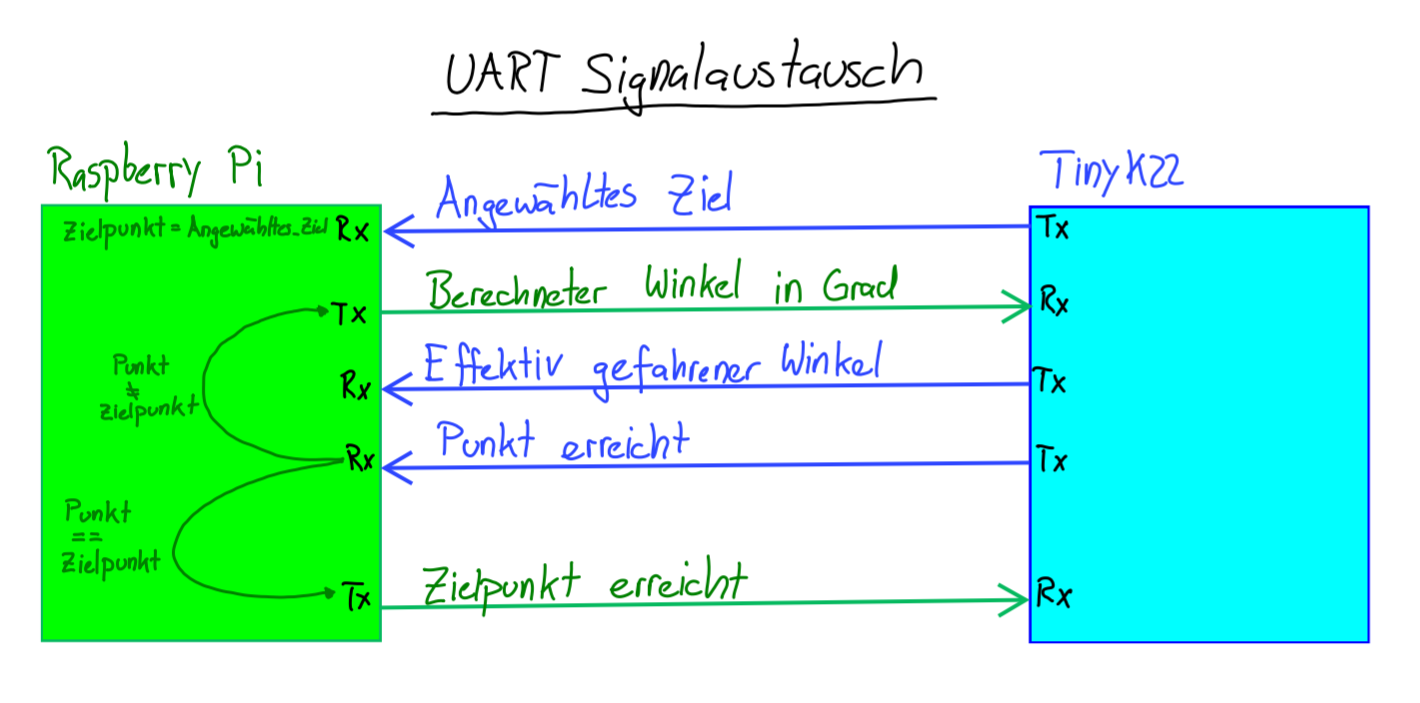
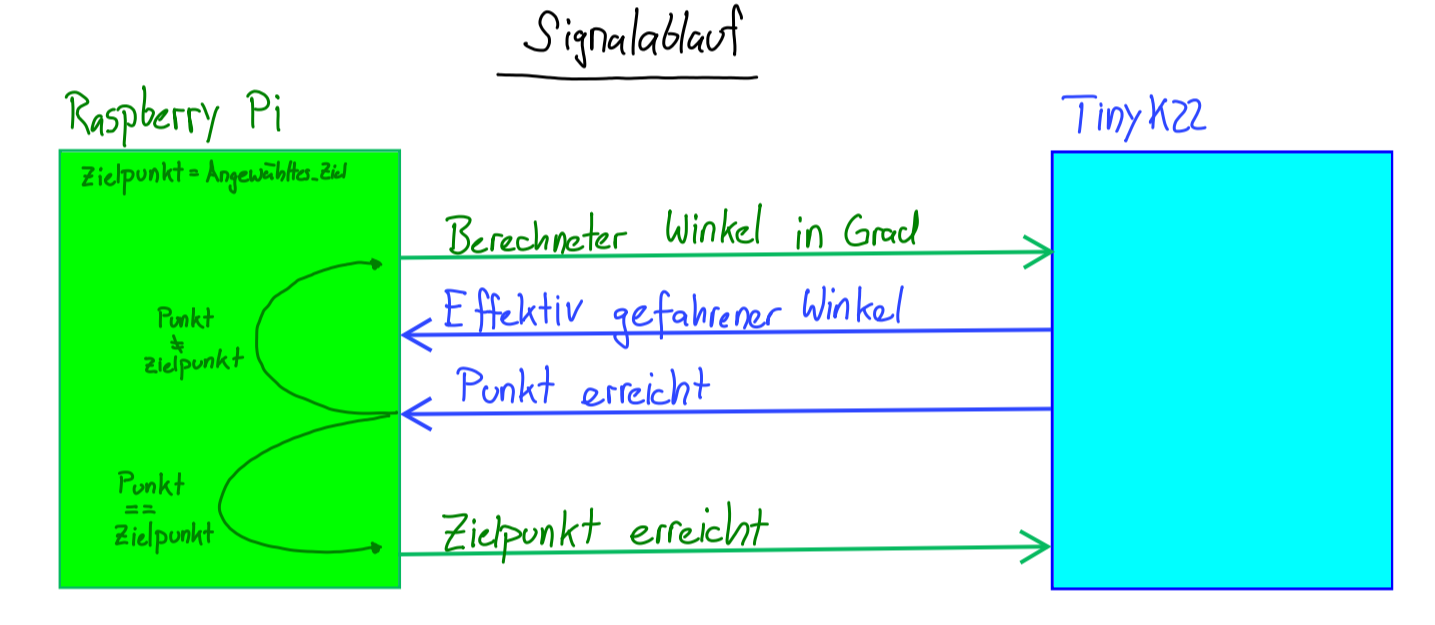
Changes from Overleaf

Changed region(s): [[0.031, 0.152, 0.9915, 0.9728], [0.3099, 0.0, 0.6507, 0.1824], [0.1239, 0.6992, 0.1859, 0.7904]]

diff --git a/parts/3-loesungskonzept.tex b/parts/3-loesungskonzept.tex
@@ -1,5 +1,6 @@
 \documentclass[../main.tex]{subfiles}
 \graphicspath{{\subfix{../img/}}}
+\include{../glossary}
 \begin{document}
 
 \newpage
@@ -16,25 +17,21 @@ In diesem Kapitel wird das gewählte Lösungskonzept ''Simpel'' (siehe Anhang \r
 
 \subsection{Aufbau}
 
-\textbf{TODO:} 
-- Aufbau mit fehlenden Daten ergänzen.  
+Der Fahrzeug besitzt zwei Räder, die mit jeweils einem DC-Motor angetrieben werden. Um das Fahrzeug zu balancieren, hat es am hinteren Fahrzeugende eine dritte Auflagefläche.
 
+Die Raspberry Pi Module 3 Kamera befindet sich auf einem höhenverstellbaren Masten. Die Höhe der Kamera kann zwischen 40 und 60 Zentimeter manuell eingestellt werden. Der Winkel der Kamera kann ebenfalls manuell verändert werden. Somit kann die Kamera-Position im späteren Verlauf des Projektes einfach optimiert werden.
 
-Der Roboter besteht aus zwei (TODO welche) Rädern, die mit jeweils einem DC-Motor angetrieben werden.
+Zur Hindernisbewältigung befindet sich an der Vorderseite des Roboters ein Klemmmechanismus. Ein dritter DC-Motor zieht die beiden Klemmbacken des Mechanismus zusammen und hebt sie an, um das Hindernis aufzuheben. Damit der Abstand zu einem Hindernis erkannt werden kann, befindet sich ein Ultraschallsensor zwischen den beiden Klemmbacken. 
 
-Die Raspberry Pi Camera Module 3 Kamera befindet sich auf einem höhenverstellbaren Masten. Die Höhe der Kamera kann zwischen 40 und 60 Zentimeter variabel eingestellt werden. Der Winkel der Kamera kann ebenfalls verändert werden. Somit kann die Kamera-Position im späteren Verlauf des Projektes einfach optimiert werden.
-
-Zur Hindernisbewältigung befindet sich an der Vorderseite des Roboters ein Greifarm. Ein Schrittmotor zieht die zwei Klemmblöcke des Greifarms zusammen und hebt sie an, um das Hindernis aufzuheben. Damit der Abstand zu einem Hindernis erkannt werden kann, befindet sich ein Ultraschallsensor zwischen den beiden Klemmblöcken. 
-
-Die Motoren, Sensoren und Eingabeknöpfe sind mit einem TinyK22 verbunden.
-Das TinyK22 sowie die Kamera sind an einem Raspberry Pi 5 angeschlossen.
+Die Motoren und Sensoren werden über das TinyK22 gesteuert.
+Das TinyK22, die Eingabeknöpfe sowie die Kamera sind an einem Raspberry Pi 5 angeschlossen.
 
 Die Energieversorgung für alle Komponenten wird mit einem LiPo-Akku sichergestellt (Begründung im Anhang \ref{a3:Energiequelle}).
 Mit dem Notaus-Knopf kann die Energieversorgung zu allen Komponenten direkt unterbrochen werden.
 \newpage
 \subsection{Ablauf}
 
-Im Ablaufdiagramm (Abbildung \ref{img:ablaufdiagramm}) wird der Programmablauf des Roboters von Start bis Ziel übersichtlich aufgezeigt.
+Im Ablaufdiagramm (Abbildung \ref{img:ablaufdiagramm}) wird der Programmablauf des Fahrzeugs von Start bis Ziel übersichtlich aufgezeigt.
 
 \begin{figure}[H]
 \includegraphics[width=0.9\textwidth]{img/lösungskonzpet/Ablaufdiagramm.png}
@@ -54,11 +51,11 @@ Sobald der Roboter im Ziel angekommen ist, erleuchtet die LED, welche sich neben
 
 \subsection{Fortbewegung} 
 
-Die Fortbewegung wird nach dem Prinzip Roomba realisiert. Wie der Name schon erahnen lässt, handelt es sich dabei um ein ähnliches System, wie wir es von Staubsauger-Robotern kennen. Das Prinzip besteht aus zwei einzeln angetriebenen Rädern und einem Stützelement. Die angetriebenen Räder können unabhängig in beide Drehrichtungen angetrieben werden, wodurch ein Wenden an Ort und Stelle ermöglicht wird. Die beiden Räder sind in Längsrichtung zentrisch angeordnet, damit sich das Fahrzeug um den eigenen Mittelpunkt drehen kann, ohne dass ein Versatz entsteht. Weitere Details dazu befinden sich im Anhang unter \ref{a3:Fortbewegung}.
+Die Fortbewegung wird nach dem Prinzip Roomba realisiert. Es handelt sich dabei um ein ähnliches System, wie es bei Staubsauger-Robotern vorkommt. Das Prinzip besteht aus zwei einzeln angetriebenen Rädern und einem Stützelement. Die angetriebenen Räder können unabhängig in beide Drehrichtungen angetrieben werden, wodurch ein Wenden an Ort und Stelle ermöglicht wird. Die beiden Räder sind in Längsrichtung zentrisch angeordnet, damit sich das Fahrzeug um den eigenen Mittelpunkt drehen kann, ohne dass ein Versatz entsteht. Weitere Details dazu befinden sich im Anhang unter \ref{a3:Fortbewegung}.
 
 Als Antriebsmotoren werden Brushed-DC-Motoren verwendet, die über eine H-Brücke mit einem PWM-Signal angesteuert werden können. \textcolor{red}{TODO: Funktion H-Brücke und PWM Signal erklären wie bei Encoder, in Anhang ergänzen oder so stehen lassen?} Jeder Motor verfügt über einen Encoder, der überwacht, dass beide Motoren die gleiche Anzahl an Umdrehungen ausführen. Gesteuert werden die Motoren von einem TinyK22 (wieso der TinyK22 gewählt wurde, siehe Anhang \ref{a3:Hardware Steuerung}), der die H-Brücke ansteuert. Weitere Details können im Anhang, unter \ref{a3:Fahrantrieb} und \ref{a3:Sensorik:Positionsabfrage} nachgeschlagen werden.
 \newpage
-Der TinyK22 ist über eine \Gls{uart}-Schnittstelle mit dem Raspberry Pi verbunden (siehe Abbildung \ref{img:UART_Physisch}). Zunächst sendet der TinyK22 das gewünschte Ziel an den Raspberry Pi. Der Raspberry Pi wertet mit der Kamera aus, welches der nächstbeste Punkt ohne Pylone ist und teilt anschliessend dem TinyK22 mit, um welchen Winkel das Fahrzeug ausgerichtet werden muss, um diesen Punkt zu erreichen. Somit dreht sich das Fahrzeug auf die angepeilte Linie, diese wird vom Liniensensor erkannt. Wird die Linie nicht erkannt, sucht das System diese durch Drehungen im Bereich von ±15 Grad. Sobald die Linie gefunden wird, meldet der TinyK22 dem Raspberry Pi, wie weit sich das Fahrzeug gedreht hat. Dies ist in der Abbildung \ref{img:UART_Signalaustausch} visualisiert.
+Der TinyK22 ist über eine \Gls{uart}-Schnittstelle mit dem Raspberry Pi verbunden (siehe Abbildung \ref{img:UART_Physisch}). Zunächst sendet der TinyK22 das gewünschte Ziel an den Raspberry Pi. Der Raspberry Pi wertet mit der Kamera aus, welches der nächstbeste Punkt ohne Pylone ist und teilt anschliessend dem TinyK22 mit, um welchen Winkel das Fahrzeug ausgerichtet werden muss, um diesen Punkt zu erreichen. Somit dreht sich das Fahrzeug auf die angepeilte Linie, diese wird vom Liniensensor erkannt. Wird die Linie nicht erkannt, sucht das System diese durch Drehungen im Bereich von ±15 Grad. Sobald die Linie gefunden wird, meldet der TinyK22 dem Raspberry Pi, wie weit sich das Fahrzeug gedreht hat. Dies ist in der Abbildung \ref{img:UART_Signalablauf} visualisiert.
 
 \begin{figure}[H]
 \centering
@@ -70,8 +67,8 @@ Der TinyK22 ist über eine \Gls{uart}-Schnittstelle mit dem Raspberry Pi verbund
 \begin{figure}[H]
 \centering
 \includegraphics[width=0.7\textwidth]{img/lösungskonzpet/Skizzen/Uart_Signalaustausch.png}
-\caption{\Gls{uart} Signalaustausch}
-\label{img:UART_Signalaustausch}
+\caption{\Gls{uart} Signalablauf}
+\label{img:UART_Signalablauf}
 \end{figure}
 
 
@@ -90,11 +87,11 @@ Je nach neu erhaltener Information werden folgende Anpassungen am Graphen vorgen
 \end{itemize}
 
 \subsubsection{Objekterkennung} \label{sub:Objekterkennung}
-Die Objekterkennung wird mithilfe einer weitwinkligen Raspberry Pi Camera Module 3 Kamera durchgeführt. Dabei werden Pylonen, Hindernisse und Wegpunkte erkannt. Als Software kommt YOLO zum Einsatz (Anhang \ref{a3:Objekterkennung}). Die erkannten Objekte werden für die Wegfindung genutzt. Das Ziel ist es, von Anfang an möglichst viele Objekte zu erfassen und auszuwerten. Da dies jedoch nicht garantiert werden kann, wird die Objekterkennung bei jedem Wegpunkt durchgeführt. 
+Die Objekterkennung wird mithilfe einer weitwinkligen Raspberry Pi Module 3 Kamera durchgeführt. Dabei werden Pylonen, Hindernisse und Wegpunkte erkannt. Als Software kommt YOLO zum Einsatz (Anhang \ref{a3:Objekterkennung}). Die erkannten Objekte werden für die Wegfindung genutzt. Das Ziel ist es, von Anfang an möglichst viele Objekte zu erfassen und auszuwerten. Da dies jedoch nicht garantiert werden kann, wird die Objekterkennung bei jedem Wegpunkt durchgeführt. 
 
 \subsection{Hindernisbewältigung}
-Der Ultraschallsensor überwacht kontinuierlich, ob sich ein Hindernis auf der Linie befindet (siehe Anhang \ref{a3:Objekterkennung_Sensor}). Sobald ein Hindernis in 30 cm Entfernung detektiert wird, verlangsamt sich das Fahrzeug und fährt langsam darauf zu, bis es zwischen den zwei seitlichen Klemmbacken positioniert ist. Diese Distanz ist vorprogrammiert, und das Fahrzeug hält an. Danach wird der Schrittmotor angesteuert, der das Hindernis ergreift und gleichzeitig anhebt (die genauen Details zu dieser Konstruktion befinden sich im Anhang \ref{a3:Hindernisbewältigungsantrieb} und \ref{a3:Aufnahme_Hindernis}).
-Das Fahrzeug fährt anschliessend eine Fahrzeuglänge vor, wobei die Encodermessung die Distanz überwacht. Danach dreht es sich um 180 Grad, und der Schrittmotor löst die Klemmen. Das Fahrzeug fährt nun ein Stück zurück, um das Hindernis nicht mehr zwischen den Klemmbacken zu haben, und vollzieht eine weitere 180-Grad-Drehung. Abschliessend fährt das Fahrzeug mithilfe des Liniensensors entlang der Linie zum nächsten Punkt (siehe Abbildung \ref{img:Skizze_Hindernisbewältigung}).
+Der Ultraschallsensor überwacht kontinuierlich, ob sich ein Hindernis auf der Linie befindet (Sensorwahl: Anhang \ref{a3:Objekterkennung_Sensor}). Ab einer Entfernung von 30 cm wird ein Hindernis erkannt. Das Fahrzeug hält an, sobald das Hindernis sich zwischen den zwei seitlichen Klemmbacken befindet. Danach wird der DC-Motor angesteuert, der das Hindernis ergreift und gleichzeitig anhebt. Die genauen Details zu dieser Konstruktion befinden sich im Anhang \ref{a3:Hindernisbewältigungsantrieb} und \ref{a3:Aufnahme_Hindernis}.
+Das Fahrzeug fährt anschliessend eine Fahrzeuglänge vor, wobei die Encodermessung die Distanz überwacht. Danach dreht es sich um 180 Grad, und der Schrittmotor löst die Klemmen. Das Fahrzeug entfernt sich nun soweit vom Hindernis, bis es sich ohne Kollisionsgefahr um 180 Grad zurückdrehen kann. Abschliessend fährt das Fahrzeug mithilfe des Liniensensors entlang der Linie zum nächsten Punkt (siehe Abbildung \ref{img:Skizze_Hindernisbewältigung}).
 
 \begin{figure}[H]
 \centering
@@ -104,8 +101,8 @@ Das Fahrzeug fährt anschliessend eine Fahrzeuglänge vor, wobei die Encodermess
 \end{figure}
 
 
-\subsubsection{Klemmen}
-Die Klemmen, die in Punkt 3 und 6 in der Abbildung \ref{img:Skizze_Hindernisbewältigung} benötigt werden, erfüllen gleichzeitig mehrere Funktionen.
+\subsubsection{Klemmmechanismus}
+Der Klemmen, die in Punkt 3 und 6 in der Abbildung \ref{img:Skizze_Hindernisbewältigung} benötigt werden, erfüllen gleichzeitig mehrere Funktionen.
 
 \begin{enumerate}
     \item Greifen

diff --git a/parts/2-einleitung.tex b/parts/2-einleitung.tex
@@ -1,0 +1,28 @@
+\documentclass[../main.tex]{subfiles}
+\graphicspath{{\subfix{../img/}}}
+\begin{document}
+
+\newpage
+\section{Einleitung}
+Im Projektmodul \acrfull{pren1} an der Hochschule Luzern im Herbstsemester 2024 steht die Entwicklung eines autonomen Fahrzeugs im Mittelpunkt. Dieses Fahrzeug soll sich auf einem vorgegebenen Wege-Netzwerk eigenständig bewegen und dabei den optimalen Weg zum Ziel finden. Das gesamte System muss ohne externe Eingriffe arbeiten und selbstständig Entscheidungen treffen. 
+
+Das Wege-Netzwerk besteht aus 8 fixierten Wegpunkten, die durch Linien aus Klebeband verbunden sind. Eine zentrale Herausforderung besteht darin, dass das Fahrzeug während der Fahrt gesperrte Wegpunkte vermeiden und Hindernisse erkennen und korrekt behandeln soll. Zusätzlich gibt es bestimmte Abschnitte des Wegenetzes, die von den Dozenten entfernt werden können, was das Fahrzeug ebenfalls berücksichtigen muss. 
+
+Das Projekt wird in zwei Phasen unterteilt: In \acrshort{pren1}, das im Herbstsemester stattfindet, steht die Konzeptentwicklung im Vordergrund. Die Studierenden erarbeiten ein Gesamtkonzept, das alle relevanten Teilfunktionen des Fahrzeugs berücksichtigt. Parallel dazu wird ein Simulator entwickelt, mit dem die geplanten Fahrwege und Reaktionen auf Hindernisse und Sperrungen getestet werden können. Dieser Simulator soll den Entwicklungsprozess unterstützen und dokumentiert werden. 
+
+Im darauffolgenden Frühlingssemester, \acrshort{pren2}, wird auf Basis des erarbeiteten Konzepts ein funktionaler Prototyp gebaut. Das fertige Fahrzeug tritt schliesslich in einem Wettbewerb gegen die Fahrzeuge anderer Teams an, wobei es auf Zuverlässigkeit und Effizienz geprüft wird. Hierbei wird bewertet, ob das Fahrzeug regelkonform fährt, Hindernisse richtig handhabt und das Ziel möglichst schnell erreicht. 
+
+Ein besonderes Augenmerk liegt zudem auf der Nachhaltigkeit des Projekts. Die Studierenden sollen bereits, während der Konzeptphase Aspekte wie Materialwahl, Energieverbrauch und Recycling-Möglichkeiten berücksichtigen. Diese Nachhaltigkeitsüberlegungen sind auch Teil der abschliessenden Bewertung. Der Projektverlauf wird in Form einer Dokumentation festgehalten, die später als Beispiel für zukünftige Projektarbeiten dienen soll.
+
+Die originale Aufgabenstellung befindet sich im Anhang \ref{aufgabenstellung}.
+
+\newpage
+\subsection{Skizze Aufgabenstellung}
+Die Skizze soll die Aufgabenstellung visuell darstellen und dadurch eine  Übersicht über die einzelnen Anforderungen und Funktionen des Fahrzeuges schaffen.
+    \begin{figure}[H]
+        \includegraphics[width=\textwidth]{assets/Skizze_Aufgabenstellung.pdf}
+        \caption{Skizze der Aufgabestellung}
+        \label{img:Skizze_Aufgabenstellung}
+    \end{figure} 
+ 
+\end{document}

diff --git a/parts/5-projektmanagement.tex b/parts/5-projektmanagement.tex
@@ -108,7 +108,7 @@ Aus Darstellungsgründen wurden die Attribute der Risikos in zwei Reihen aufgete
 \rowcolor{white} \multirow{-2}{*}{R4} & Distanzwert muss längere Zeit konstant bleiben & Zweiter Sensor zum Vergleich verbauen & & & Fahrzeug führt Hindernisbewältigung nur bei einem Hindernis aus & 1 & 2 & 2 \\ \hline
 
 \rowcolor[HTML]{F5F5F5} & Datenverlust & Verlust von Projektdaten/Forschungsergebnissen & INF & Projekt & Server offline & 2 & 5 & 10 \\* \cline{2-3} \cline{6-9}
-\rowcolor[HTML]{F5F5F5} \multirow{-2}{*}{R5} & Regelmässige Backups erstellen & Daten aus Backups wiederherstellen & & & Daten sind zugänglich und schnell wiederherstellbar & 2 & 2 & 4 \\ \hline
+\rowcolor[HTML]{F5F5F5} \multirow{-2}{*}{R5} & Regelmässige Backups erstellen & Daten aus Backups wiederherstellen\footnote{Dokumentation Backup: https://github.com/gianfurrer/hslu-pren1-documentation} & & & Daten sind zugänglich und schnell wiederherstellbar & 2 & 2 & 4 \\ \hline
 
 \rowcolor{white} & Lieferschwierigkeiten & Teile, die bestellt werden haben Lieferverzögerung & ET+MT &  Market & Längere Lieferzeiten/Keine Lieferzeiten angegeben & 3 & 4 & 12 \\* \cline{2-3} \cline{6-9}
 \rowcolor{white} \multirow{-2}{*}{R6} & Frühzeitig Bestellen, alternative Teile/Quellen suchen & bei alternativen Quellen bestellen & & & Teile können zeitnah verwendet verbaut werden & 3 & 3 & 9 \\ \hline

diff --git a/parts/3.1-simulation.tex b/parts/3.1-simulation.tex
@@ -146,6 +146,11 @@ Damit die Simulation weiss, auf welchen Wegpunkten bzw. Linien sich Hindernisse 
 
 \imagewidth{img/simulation/labeled-graph.png}{Beschrifteter Graph}{10cm}
 
+
+\subsection{Umsetzung}
+
+\subsubsection{Konfiguration}
+
 Die Konfiguration wird in einer \acrshort{yaml}-Datei abgespeichert und sieht wie folgt aus.
 
 \begin{minted}[fontsize=\small]{yaml}
@@ -182,7 +187,7 @@ Zusätzlich wird beim Befahren vom Wegpunkt \textbf{D} folgendes festgestellt:
 Diese Informationen werden genutzt, um den Graphen dynamisch zu aktualisieren und die optimalen Routen basierend auf den aktuellen Bedingungen neu zu berechnen.
 
 
-\subsubsection{Umsetzung}
+\subsubsection{Grapherstellung}
 
 TODO(Gian): Kapitel vervollständigen
 

diff --git a/parts/00-DOKUMENTATION-TODOS.tex b/parts/00-DOKUMENTATION-TODOS.tex
@@ -15,3 +15,28 @@ Lösungskonzept:
 
 - Glossareinträge erstellen
 - Fix Literaturverzeichnis
+
+TODO
+- Anhang von Römischen zahlen zu A1.1
+
+- Einleitung kürzten
+
+Silvan:
+- Greifarm zu Klemmmechanismus umbenennen
+
+Lösungskonzept:
+- Aufbau:
+  - Blockdiagramm mit physischen Schnittstellen
+  - Materialwahl von Chassis, Klemmmechanismus, Kamerapfosten
+- Ablauf:
+  - Objekte anstatt Hindernisse erkennen
+  - Schnellster Weg finden umbenennen
+  - Farblegende hinzufügen
+
+- WegfindungL
+  - Tranlation von (physischen) Wegenetzwerk zu Graph
+  - Translation von Linie/Wegpunkt zu Kanten/Knoten
+
+
+Hardware Tests:
+- Ergebnisse in Lösungskonzept

diff --git a/parts/2.1-anforderungsliste.tex b/parts/2.1-anforderungsliste.tex
@@ -7,13 +7,12 @@
 \label{sec:anforderungsliste}
 
 In diesem Abschnitt werden alle Anforderungen an das autonome Fahrzeug aufgelistet.  
-Die Anforderungen werden in drei Kategorien eingeteilt: Festanforderung, Mindestanforderung oder Wunschanforderung.  
+Die Anforderungen werden in zwei Kategorien eingeteilt: Festanforderung oder Wunschanforderung.  
 Es wird ebenfalls angegeben, wer für die jeweilige Anforderung verantwortlich ist.
 
 \begin{multicols}{2}
 \begin{itemize}
   \item {\bf F} = Festanforderung
-  \item {\bf M} = Mindestanforderung
   \item {\bf W} = Wunschanforderung
 \end{itemize}
 

diff --git a/main.tex b/main.tex
@@ -93,9 +93,8 @@
   % ------------------------------------------------------------------------------
   % Assemble the document with the multiple parts
   
-  \subfile{parts/0-doc-info}
   \subfile{parts/1-abstract}
-  \subfile{parts/2-aufgabenstellung}
+  \subfile{parts/2-einleitung}
   \subfile{parts/2.1-anforderungsliste}
   \subfile{parts/3-loesungskonzept}
   \subfile{parts/3.1-simulation}
